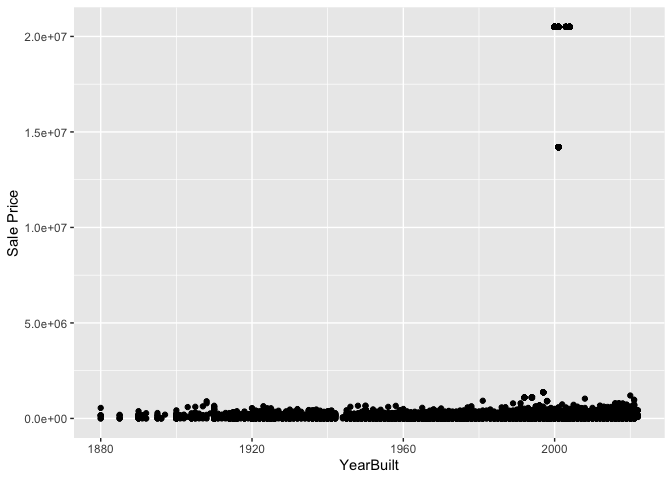
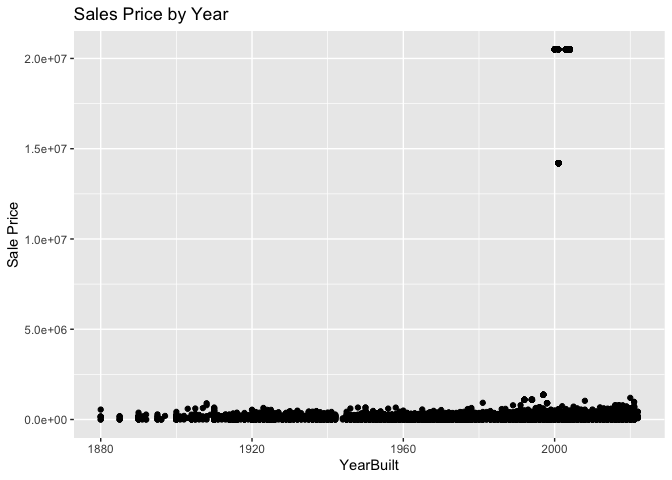
test

diff --git a/README.md b/README.md
@@ -229,7 +229,8 @@ the years.
 
 ``` r
 ggplot(ames_clean, aes(x = YearBuilt, y = `Sale Price`)) +
-  geom_point()
+  geom_point() +
+  labs(title = "Sales Price by Year")
 ```
 
 ![](README_files/figure-gfm/code%202-1.png)<!-- -->
